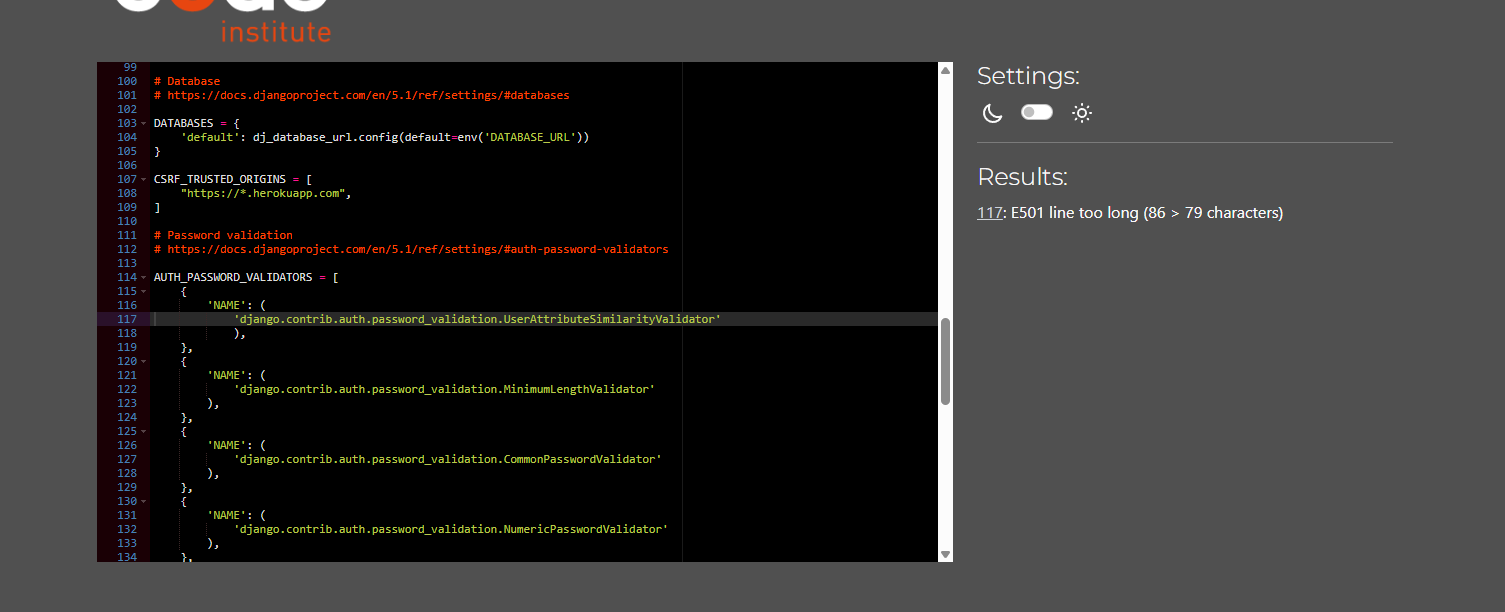
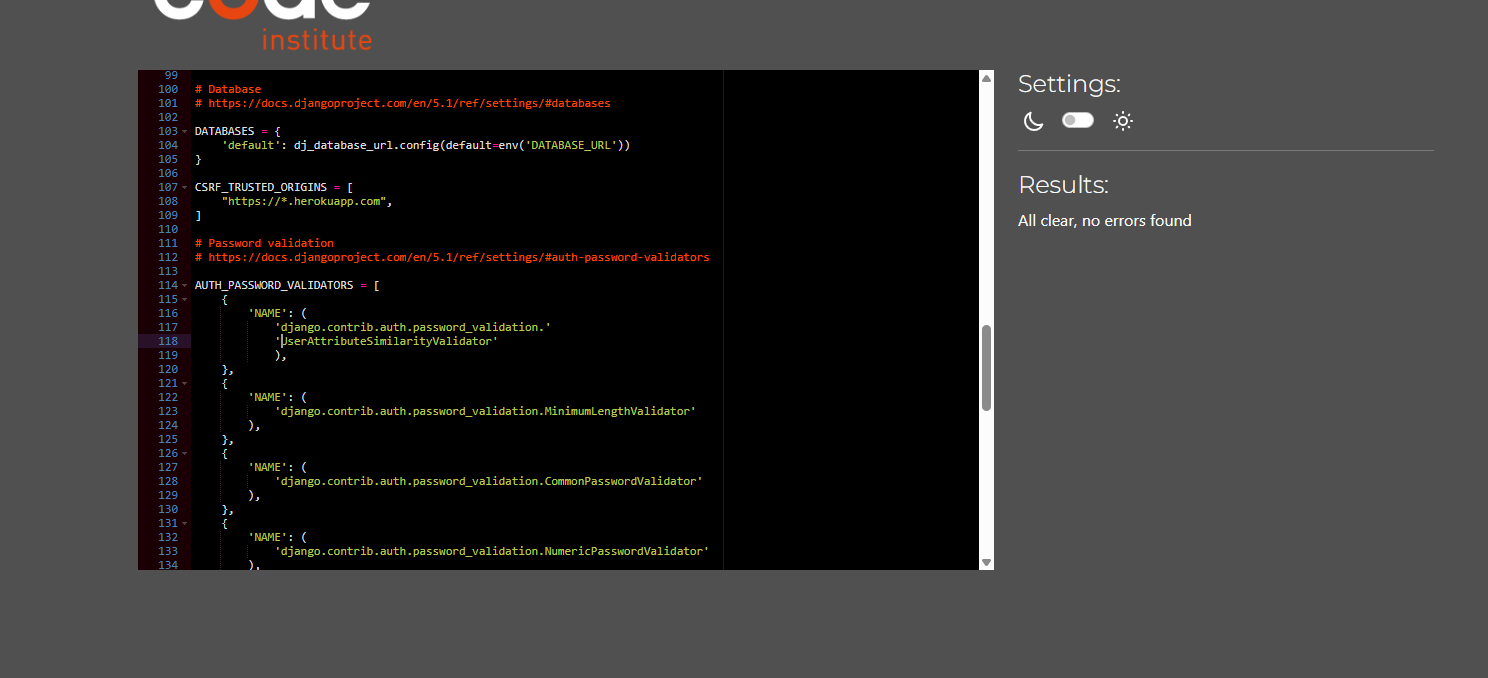
Update testing documentation and enhance validation results; add new images for testing evidence

Changed region(s): [[0.0618, 0.0931, 0.9274, 0.9314], [0.0618, 0.0, 0.2473, 0.0931]]

diff --git a/reviews/urls.py b/reviews/urls.py
@@ -8,8 +8,12 @@ urlpatterns = [
     path('upload/', views.upload_game, name='upload_game'),
     path('<slug:slug>/', views.GameDetail.as_view(), name='review_detail'),
     path('<slug:slug>/comment/', views.add_comment, name='add_comment'),
-    path('comment/<int:comment_id>/edit/', views.edit_comment, name='edit_comment'),
-    path('comment/<int:comment_id>/delete/', views.delete_comment, name='delete_comment'),
+    path(
+        'comment/<int:comment_id>/edit/',
+        views.edit_comment, name='edit_comment'),
+    path(
+        'comment/<int:comment_id>/delete/',
+        views.delete_comment, name='delete_comment'),
     path('game/edit/<slug:slug>/', views.edit_game, name='edit_game'),
     path('game/delete/<slug:slug>/', views.delete_game, name='delete_game'),
 ]

diff --git a/game_reviews/settings.py b/game_reviews/settings.py
@@ -114,7 +114,8 @@ CSRF_TRUSTED_ORIGINS = [
 AUTH_PASSWORD_VALIDATORS = [
     {
         'NAME': (
-            'django.contrib.auth.password_validation.UserAttributeSimilarityValidator'
+            'django.contrib.auth.password_validation.'
+            'UserAttributeSimilarityValidator'
             ),
     },
     {

diff --git a/TESTING.md b/TESTING.md
@@ -21,9 +21,10 @@ I have gone through each page of the site using the Chrome Developer Tools to en
 
 | Page | Result | Evidence |
 | :--- | :--- | :---: |
-| Home | Pass | [Home](media\media\images\testing-img\w3c\vw3-one.png)
-| Reviews | Pass | [Reviews-list](media\media\images\testing-img\w3c\vw3-list.png)
-| About |
+| Home | Pass | [Home](media\media\images\testing-img\w3c\vw3-one.png) |
+| Reviews | Pass | [Reviews-list](media\media\images\testing-img\w3c\vw3-list.png) |
+| About | Pass | [About](media\media\images\testing-img\w3c\vw3-about.png) |
+| Register | 
 
 ### CSS
 
@@ -31,7 +32,7 @@ I have gone through each page of the site using the Chrome Developer Tools to en
 
 | File | Result | Evidence |
 | :--- | :--- | :---: |
-| CSS | Pass | [CSS](media\media\images\testing-img\w3c\css.png)
+| CSS | Pass | [CSS](media\media\images\testing-img\w3c\css.png) |
 
 
 
@@ -41,8 +42,21 @@ I have gone through each page of the site using the Chrome Developer Tools to en
 
 | File | Result | Evidence |
 | :--- | :--- | :---: |
-| Settings.py |  | | |
-| Reviews | Pass | [Reviews-validation](media\media\images\testing-img\pep8\pep8-admin-reviews.png) 
+| ** Anteskog's Game Review** |
+| game-reviews/settings.py | Pass | [settings.py validation](media\media\images\testing-img\pep8\pep8-settings.py.png) |
+| game-reviews/Urls.py | Pass | [urls.py validation](media\media\images\testing-img\pep8\pep8-gv-urls.png) |
+| ** Reviews ** |
+| reviews/admin.py | Pass | [admin.py validation](media\media\images\testing-img\pep8\pep8-admin-reviews.png) |
+| reviews/apps.py | Pass | [apps.py](media\media\images\testing-img\pep8\pep8-reviews-apps.png) |
+| reviews/forms.py | Pass | [forms.py](media\media\images\testing-img\pep8\pep8-reviews-forms.png) |
+| reviews/models.py | Pass | [models.py](media\media\images\testing-img\pep8\pep8-models-py-reviews.png) |
+| reviews/urls.py | Pass | [urls.py](media\media\images\testing-img\pep8\pep8-reviews-urls.png) |
+| reviews/views.py | Pass | [views.py](media\media\images\testing-img\pep8\pep8-views.py-reviews.png) |
+| ** About ** |
+| about/admin.py | Pass | [admin.py](media\media\images\testing-img\pep8\pep8-about-admin.png) |
+| about/apps.py | Pass | [apps.py](media\media\images\testing-img\pep8\pep8-about-apps.png) |
+| about/forms.py | Pass | [forms.py](media\media\images\testing-img\pep8\pep8-about-forms.png) |
+
 
 ### Lighthouse
 
